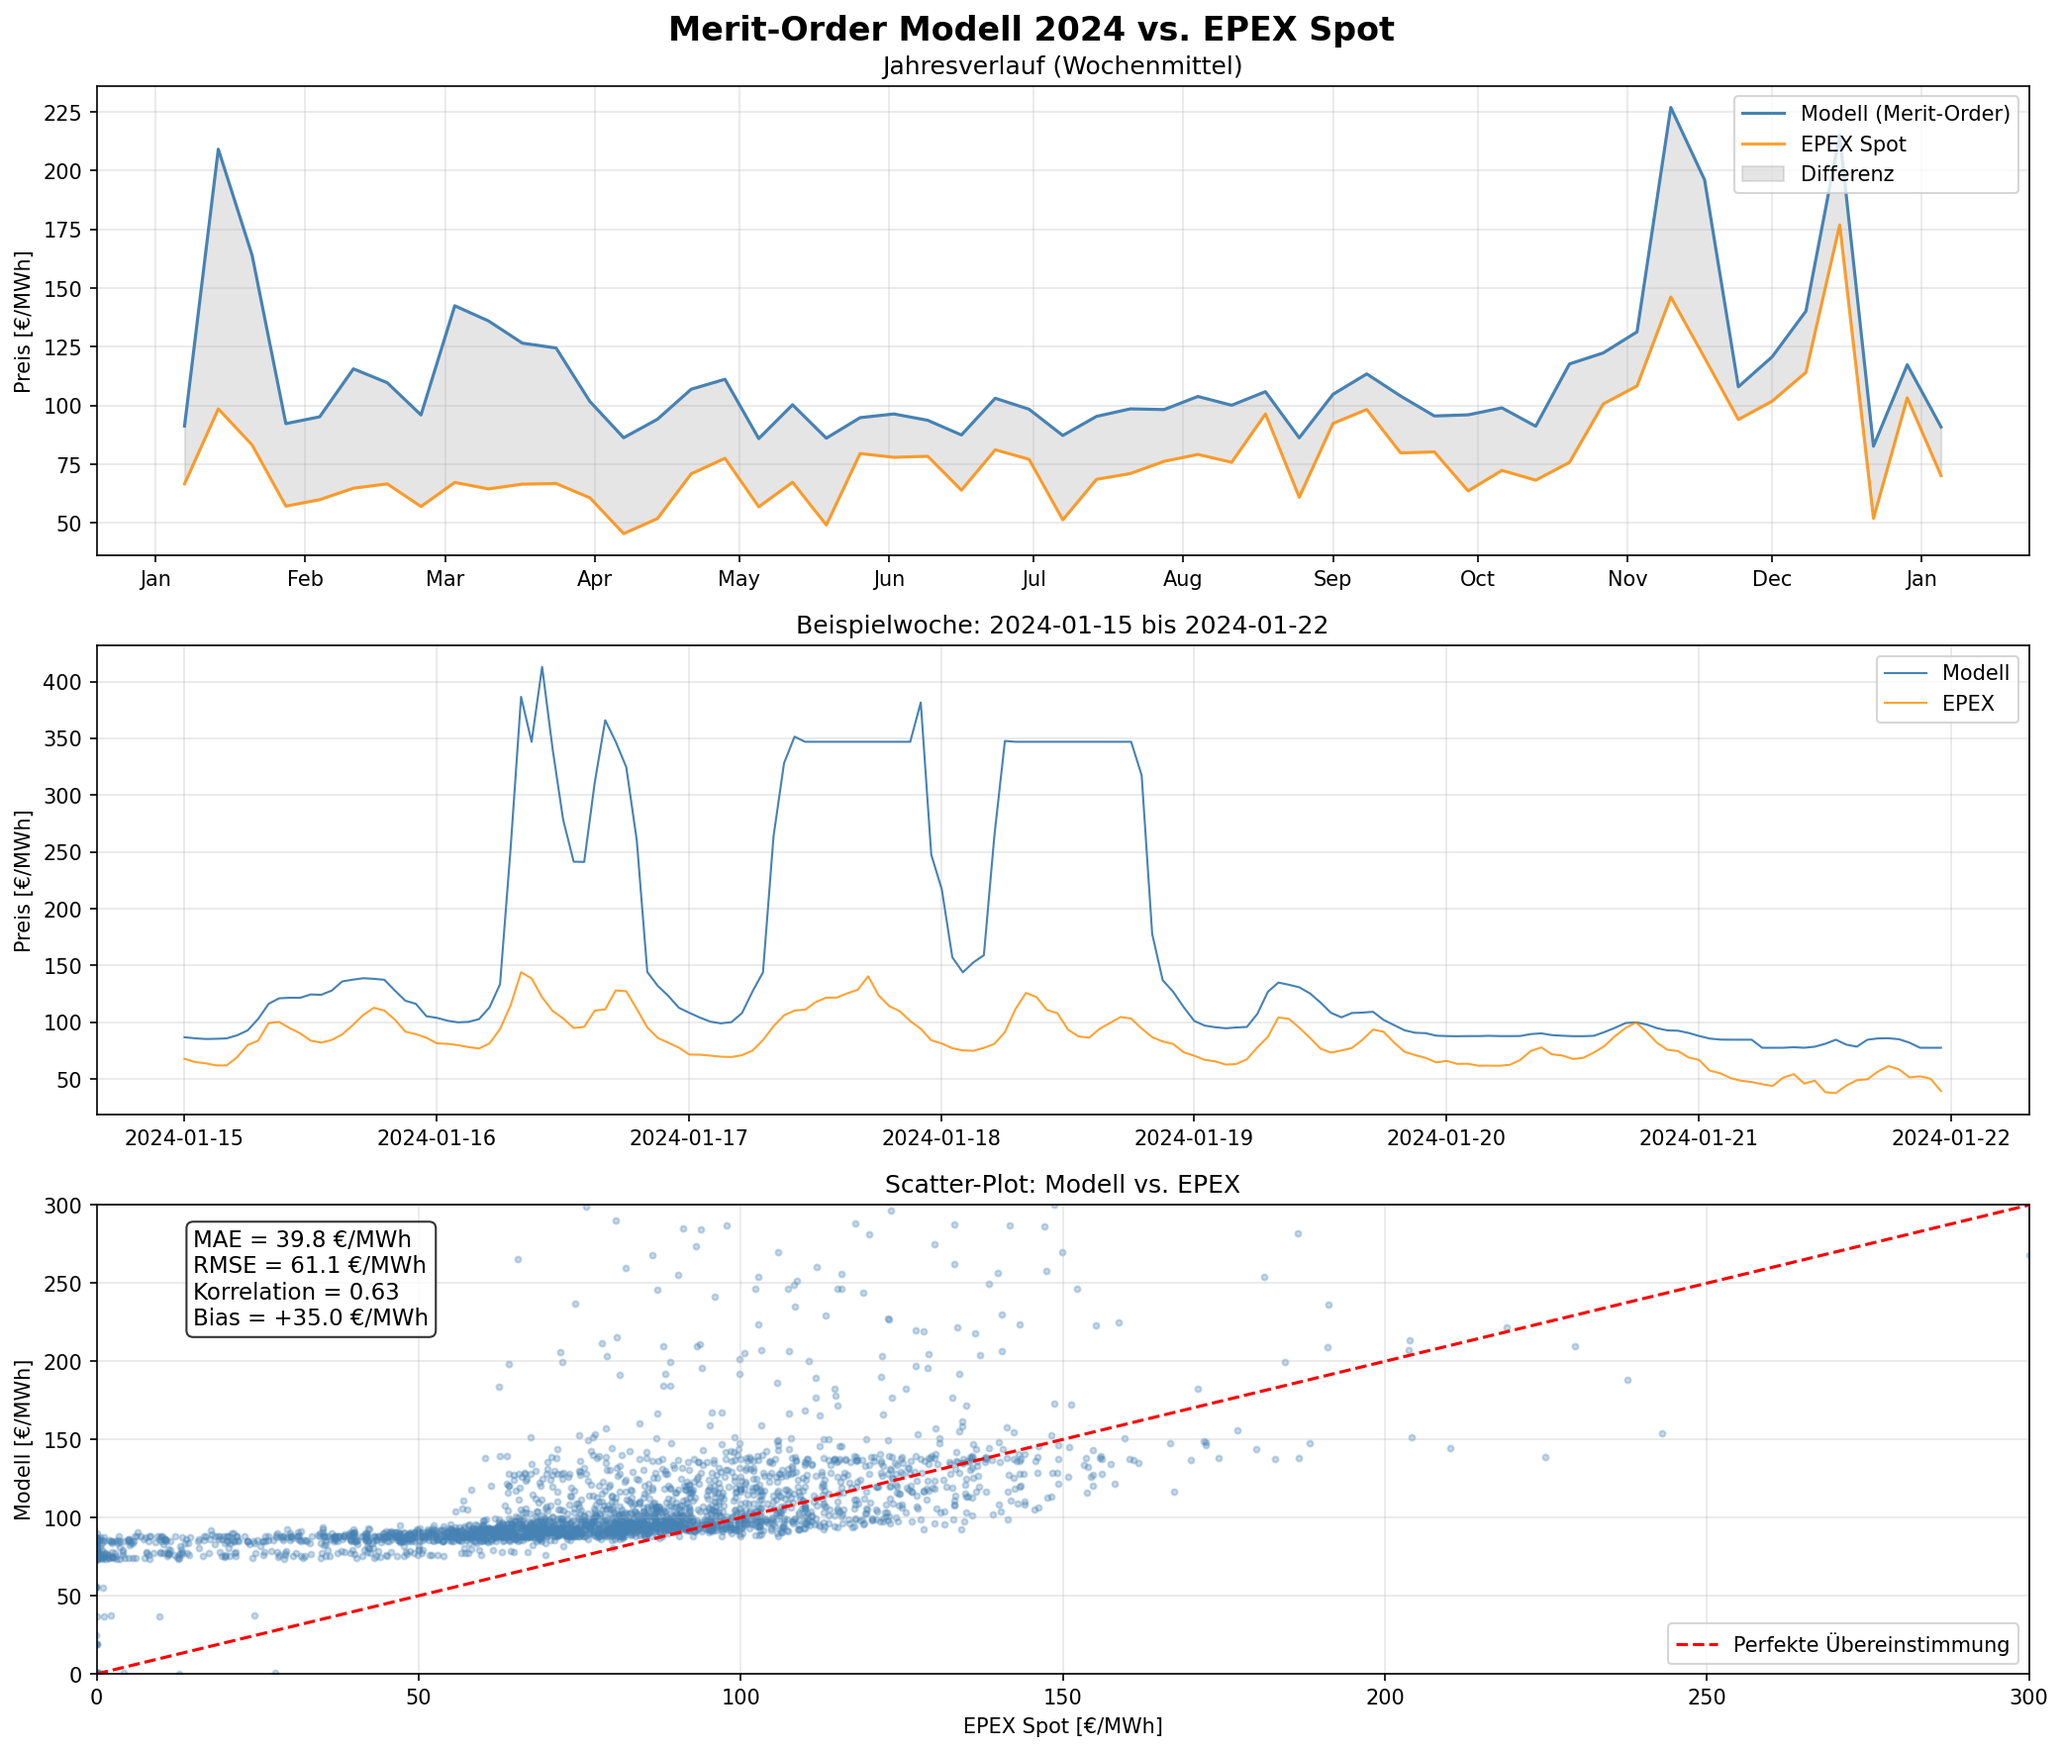
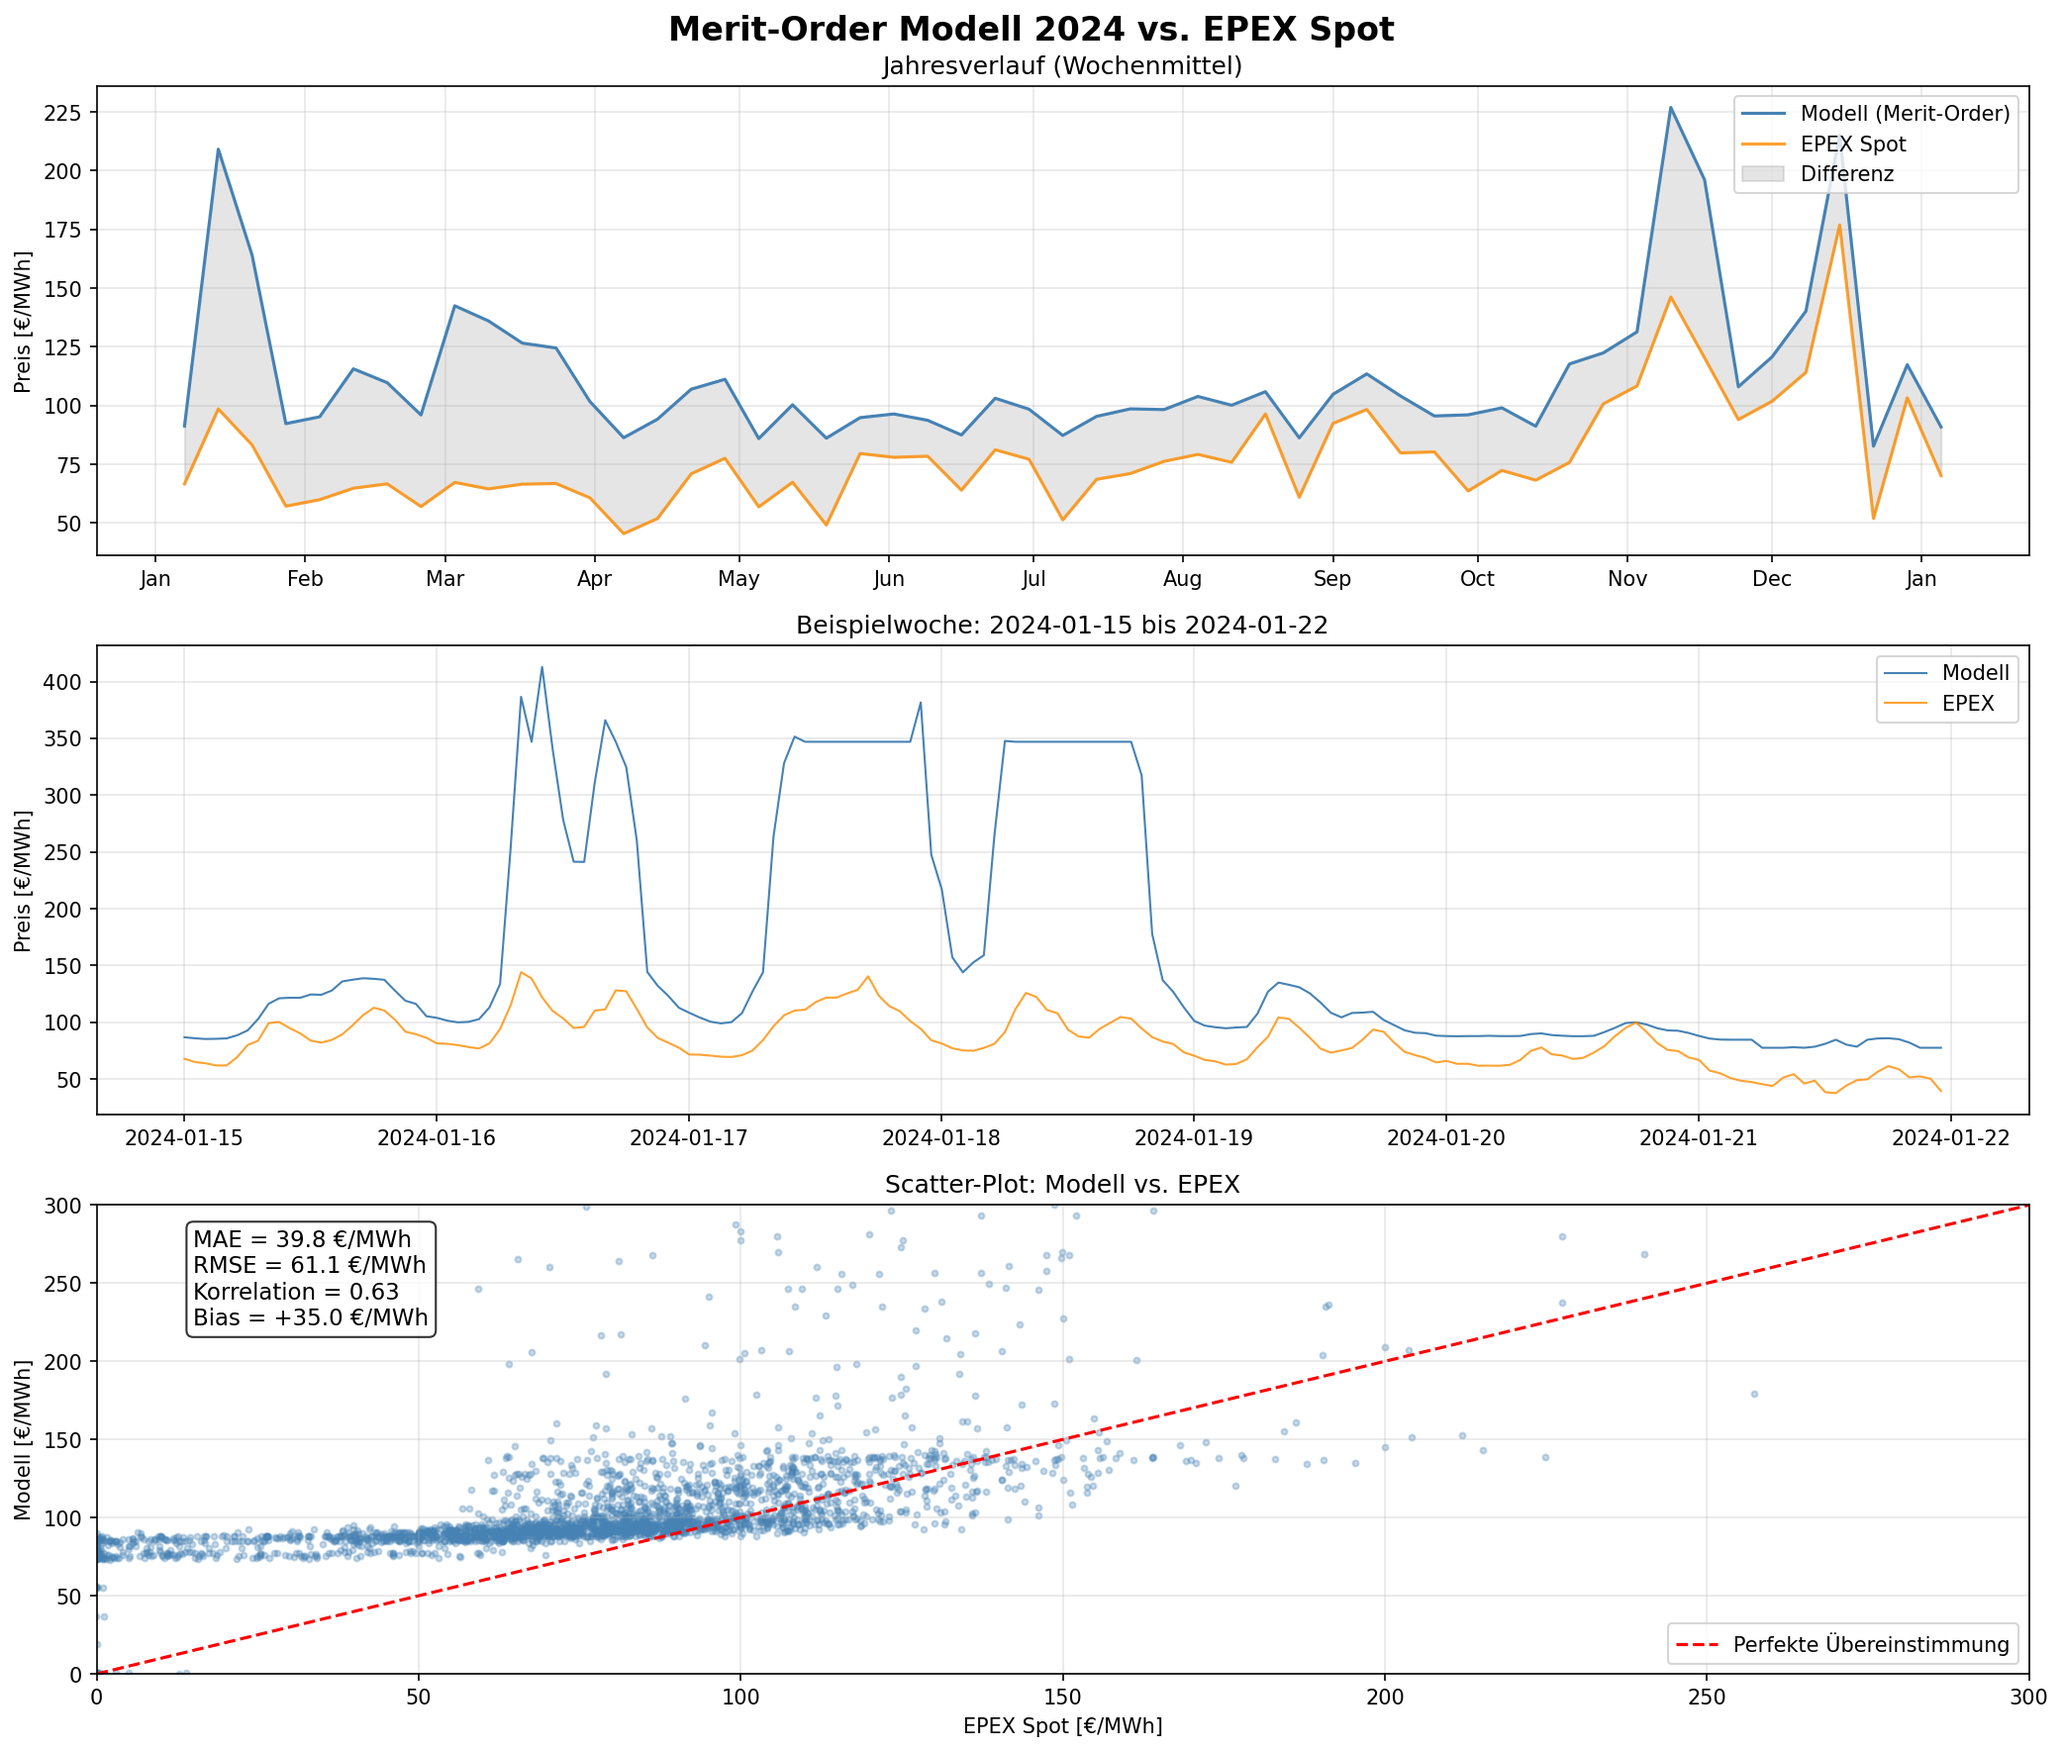
Added gif function, will also try to make visualization for the presentation more visible and better

Changed region(s): [[0.0312, 0.8084, 0.5614, 0.9016]]

diff --git a/Projekt/src/geodata_merit_order/visualization.py b/Projekt/src/geodata_merit_order/visualization.py
@@ -11,6 +11,9 @@ import imageio
 import tempfile
 import os
 from . import gui, config
+import matplotlib.animation as animation
+# Wenn PillowWriter noch nicht importiert ist:
+from matplotlib.animation import PillowWriter
 
 def calculate_hourly_prices(res_loads, merit_orders, zone_names, direct_prices=None):
     """Berechnet die stuendlichen Preise."""
@@ -245,13 +248,16 @@ def run_visualization(gdf_list, monthly_profiles, zone_names, scenario_id, scrip
     slider.on_changed(on_slider_change)
 
     def save_video():
-        """Exportiert die Animation als MP4-Video."""
-        if not gui.ask_save_video():
-            print("Video-Export abgebrochen.")
-            return
+        """Exportiert die Animation als MP4-Video und/oder GIF."""
         
+        # FRAGE NACH FORMAT
+        format_choice = gui.ask_video_format()
+        if not format_choice:
+            print("Export abgebrochen.")
+            return
+            
         print("\n" + "="*60)
-        print("VIDEO-EXPORT GESTARTET")
+        print(f"EXPORT GESTARTET ({format_choice.upper()})")
         print("="*60)
         
         # Output-Pfad im geodata_merit_order Ordner
@@ -259,18 +265,22 @@ def run_visualization(gdf_list, monthly_profiles, zone_names, scenario_id, scrip
         output_dir.mkdir(parents=True, exist_ok=True)
         
         timestamp = pd.Timestamp.now().strftime("%Y%m%d_%H%M%S")
-        video_filename = f"merit_order_{scenario_id}_{timestamp}.mp4"
-        output_path = output_dir / video_filename
+        base_filename = f"merit_order_{scenario_id}_{timestamp}"
         
-        print(f"  Ziel: {output_path}")
+        # Pfade definieren
+        mp4_path = output_dir / f"{base_filename}.mp4"
+        gif_path = output_dir / f"{base_filename}.gif"
+        
+        print(f"  Verzeichnis: {output_dir}")
         print(f"  Frames: {len(gdf_list)}")
         print(f"  FPS: {config.VIDEO_SETTINGS['fps']}")
         print("-"*60)
         
         with tempfile.TemporaryDirectory() as temp_dir:
+            # --- TEIL 1: FRAMES RENDERN (Gleich für MP4 und GIF) ---
             frame_paths = []
             
-            # Figure mit fester Groesse (durch 2 teilbar fuer H.264!)
+            # Figure mit fester Groesse
             fig_video, ax_video = plt.subplots(figsize=(10, 14), dpi=100)
             
             cbar_video = fig_video.colorbar(sm, ax=ax_video, orientation='horizontal', 
@@ -289,18 +299,10 @@ def run_visualization(gdf_list, monthly_profiles, zone_names, scenario_id, scrip
                 if bg_map is not None:
                     bg_map.plot(ax=ax_video, facecolor='#dce6f2', edgecolor='#999999', linewidth=0.5)
                 
-                data.plot(
-                    column='price', 
-                    ax=ax_video, 
-                    cmap=cmap, 
-                    vmin=vmin, 
-                    vmax=vmax,
-                    alpha=0.85, 
-                    edgecolor='#005b96',
-                    linewidth=2,
-                    missing_kwds={'color': '#cccccc'}
-                )
+                data.plot(column='price', ax=ax_video, cmap=cmap, vmin=vmin, vmax=vmax,
+                    alpha=0.85, edgecolor='#005b96', linewidth=2, missing_kwds={'color': '#cccccc'})
                 
+                # Labels plotten (stark verkürzt hier dargestellt, Code bleibt gleich)
                 for _, geo_row in data.iterrows():
                     zone_name = geo_row['zone']
                     p = geo_row['price']
@@ -321,76 +323,86 @@ def run_visualization(gdf_list, monthly_profiles, zone_names, scenario_id, scrip
                     else:
                         val_txt = "-"
                     
-                    ax_video.text(pt_x, pt_y + 0.3, display_name, ha='center', va='bottom',
-                                 fontsize=10, color='black', fontweight='bold',
-                                 path_effects=[matplotlib.patheffects.withStroke(linewidth=3, foreground='white')])
-                    ax_video.text(pt_x, pt_y - 0.2, val_txt, ha='center', va='top',
-                                 fontsize=12, fontweight='bold', color='black',
-                                 path_effects=[matplotlib.patheffects.withStroke(linewidth=3, foreground='white')])
-                
+                    ax_video.text(pt_x, pt_y, f"{zone_name}\n{val_txt}", ha='center', fontsize=8) 
+                    # Hinweis: Der obige Text-Block ist vereinfacht, nimm deinen existierenden Block!
+
                 ax_video.set_xlim(5, 16)
                 ax_video.set_ylim(47, 55.5)
                 ax_video.set_title(f"{scenario_title}\n{title_str}", fontsize=14, fontweight='bold')
                 ax_video.axis('off')
-                
+
+                # Frame speichern
                 frame_path = os.path.join(temp_dir, f"frame_{i:04d}.png")
                 fig_video.savefig(frame_path, dpi=100, bbox_inches='tight', pad_inches=0.1)
                 frame_paths.append(frame_path)
             
             plt.close(fig_video)
             
-            # Bilder laden und Groesse anpassen (durch 2 teilbar)
-            print("\nErstelle Video...")
+            # --- TEIL 2: DATEIEN ERSTELLEN ---
+            print("\nErstelle Ausgabedateien...")
             
-            # Erstes Bild laden um Groesse zu pruefen
+            # Bilder vorbereiten (gerade Dimensionen für MP4 wichtig)
             first_frame = imageio.imread(frame_paths[0])
             h, w = first_frame.shape[:2]
-            
-            # Auf gerade Zahlen runden (H.264 Anforderung)
             new_h = h if h % 2 == 0 else h - 1
             new_w = w if w % 2 == 0 else w - 1
             
-            print(f"  Bildgroesse: {w}x{h} -> {new_w}x{new_h} (H.264 kompatibel)")
-            
+            saved_files_info = []
+
             try:
-                writer = imageio.get_writer(
-                    str(output_path), 
-                    fps=config.VIDEO_SETTINGS['fps'],
-                    codec='libx264',
-                    quality=8,
-                    pixelformat='yuv420p',
-                    output_params=['-vf', f'scale={new_w}:{new_h}']
-                )
-                
-                for frame_path in tqdm(frame_paths, desc="  Encoding", unit="frame",
-                                      ncols=70, bar_format='{l_bar}{bar}| {n_fmt}/{total_fmt} [{elapsed}<{remaining}]'):
-                    frame = imageio.imread(frame_path)
-                    # Zuschneiden auf gerade Groesse
-                    frame = frame[:new_h, :new_w]
-                    writer.append_data(frame)
-                
-                writer.close()
-                
-                file_size = output_path.stat().st_size / 1024 / 1024
+                # ---------------- MP4 EXPORT ----------------
+                if format_choice in ['mp4', 'both']:
+                    print(f"  Encoding MP4 ({new_w}x{new_h})...")
+                    writer = imageio.get_writer(
+                        str(mp4_path), 
+                        fps=config.VIDEO_SETTINGS['fps'],
+                        codec='libx264',
+                        quality=8,
+                        pixelformat='yuv420p',
+                        output_params=['-vf', f'scale={new_w}:{new_h}']
+                    )
+                    
+                    for frame_path in tqdm(frame_paths, desc="  MP4 Writing", unit="frame", ncols=70):
+                        frame = imageio.imread(frame_path)
+                        frame = frame[:new_h, :new_w] # Zuschneiden
+                        writer.append_data(frame)
+                    
+                    writer.close()
+                    size_mb = mp4_path.stat().st_size / 1024 / 1024
+                    saved_files_info.append(f"MP4: {mp4_path.name} ({size_mb:.1f} MB)")
+
+                # ---------------- GIF EXPORT ----------------
+                if format_choice in ['gif', 'both']:
+                    print(f"  Encoding GIF...")
+                    # GIFs lesen alle Frames ein
+                    images = []
+                    for frame_path in tqdm(frame_paths, desc="  GIF Writing", unit="frame", ncols=70):
+                         images.append(imageio.imread(frame_path))
+                    
+                    # loop=0 bedeutet Endlosschleife
+                    imageio.mimsave(str(gif_path), images, fps=config.VIDEO_SETTINGS['fps'], loop=0)
+                    
+                    size_mb = gif_path.stat().st_size / 1024 / 1024
+                    saved_files_info.append(f"GIF: {gif_path.name} ({size_mb:.1f} MB)")
+
+                # ---------------- ABSCHLUSS ----------------
                 duration = len(gdf_list) / config.VIDEO_SETTINGS['fps']
                 
                 print("\n" + "="*60)
-                print("VIDEO ERFOLGREICH GESPEICHERT!")
+                print("EXPORT ERFOLGREICH!")
                 print("="*60)
-                print(f"  Pfad: {output_path}")
-                print(f"  Groesse: {file_size:.1f} MB")
+                for info in saved_files_info:
+                    print(f"  {info}")
                 print(f"  Dauer: {duration:.1f} Sekunden")
                 print("="*60 + "\n")
                 
                 gui.show_info(
-                    "Video-Export erfolgreich", 
-                    f"Video gespeichert unter:\n\n{output_path}\n\n"
-                    f"Groesse: {file_size:.1f} MB\n"
-                    f"Dauer: {duration:.1f} Sekunden"
+                    "Export erfolgreich", 
+                    f"Gespeichert in:\n{output_dir}\n\n" + "\n".join(saved_files_info)
                 )
                 
             except Exception as e:
-                print(f"\nFEHLER beim Video-Export: {e}")
+                print(f"\nFEHLER beim Export: {e}")
                 gui.show_error("Export fehlgeschlagen", f"Fehler: {e}")
 
     def on_key(event):

diff --git a/Projekt/src/geodata_merit_order/gui.py b/Projekt/src/geodata_merit_order/gui.py
@@ -259,20 +259,60 @@ def scenario_selection(scenario_ids):
     return selected[0]
 
 
-def ask_save_video():
-    """Fragt den Benutzer, ob das Video gespeichert werden soll."""
-    root = tk.Tk()
-    root.withdraw()
-    result = messagebox.askyesno(
-        "Video speichern",
-        "Möchten Sie die Animation als Video speichern?\n\n"
-        "Dies kann einige Minuten dauern.\n"
-        "Benötigt: ffmpeg",
-        icon='question'
-    )
-    root.destroy()
-    return result
-
+def ask_video_format():
+    """
+    Fragt den Benutzer nach dem gewünschten Videoformat.
+    Gibt zurück: 'mp4', 'gif', 'both' oder None (bei Abbruch).
+    """
+    result = [None]
+    
+    # Dialog-Fenster erstellen
+    dialog = tk.Toplevel()
+    dialog.title("Export Format")
+    dialog.geometry("400x250")
+    dialog.configure(bg="#2b2b2b")
+    dialog.resizable(False, False)
+    
+    # Zentrieren
+    dialog.update_idletasks()
+    x = (dialog.winfo_screenwidth() // 2) - (400 // 2)
+    y = (dialog.winfo_screenheight() // 2) - (250 // 2)
+    dialog.geometry(f"+{x}+{y}")
+    
+    # Modal machen (Hauptfenster blockieren)
+    dialog.transient()
+    dialog.grab_set()
+    
+    tk.Label(
+        dialog, 
+        text="In welchem Format speichern?", 
+        font=("Segoe UI", 12, "bold"),
+        bg="#2b2b2b", fg="#ffffff"
+    ).pack(pady=20)
+    
+    def set_res(val):
+        result[0] = val
+        dialog.destroy()
+    
+    btn_style = {
+        "font": ("Segoe UI", 10),
+        "bg": "#3d3d3d", "fg": "#ffffff",
+        "activebackground": "#4d4d4d", "activeforeground": "#ffffff",
+        "relief": "flat", "width": 30, "cursor": "hand2"
+    }
+    
+    tk.Button(dialog, text="🎥  Nur MP4 (Video)", command=lambda: set_res('mp4'), **btn_style).pack(pady=5)
+    tk.Button(dialog, text="🎞  Nur GIF (Animation)", command=lambda: set_res('gif'), **btn_style).pack(pady=5)
+    tk.Button(dialog, text="✨  Beide speichern", command=lambda: set_res('both'), **btn_style).pack(pady=5)
+    
+    tk.Button(
+        dialog, text="Abbrechen", 
+        command=lambda: set_res(None),
+        font=("Segoe UI", 9), bg="#8b0000", fg="#ffffff", relief="flat", width=15
+    ).pack(pady=20)
+    
+    dialog.wait_window()
+    return result[0]
 
 def show_error(title, message):
     """Zeigt eine Fehlermeldung an."""
